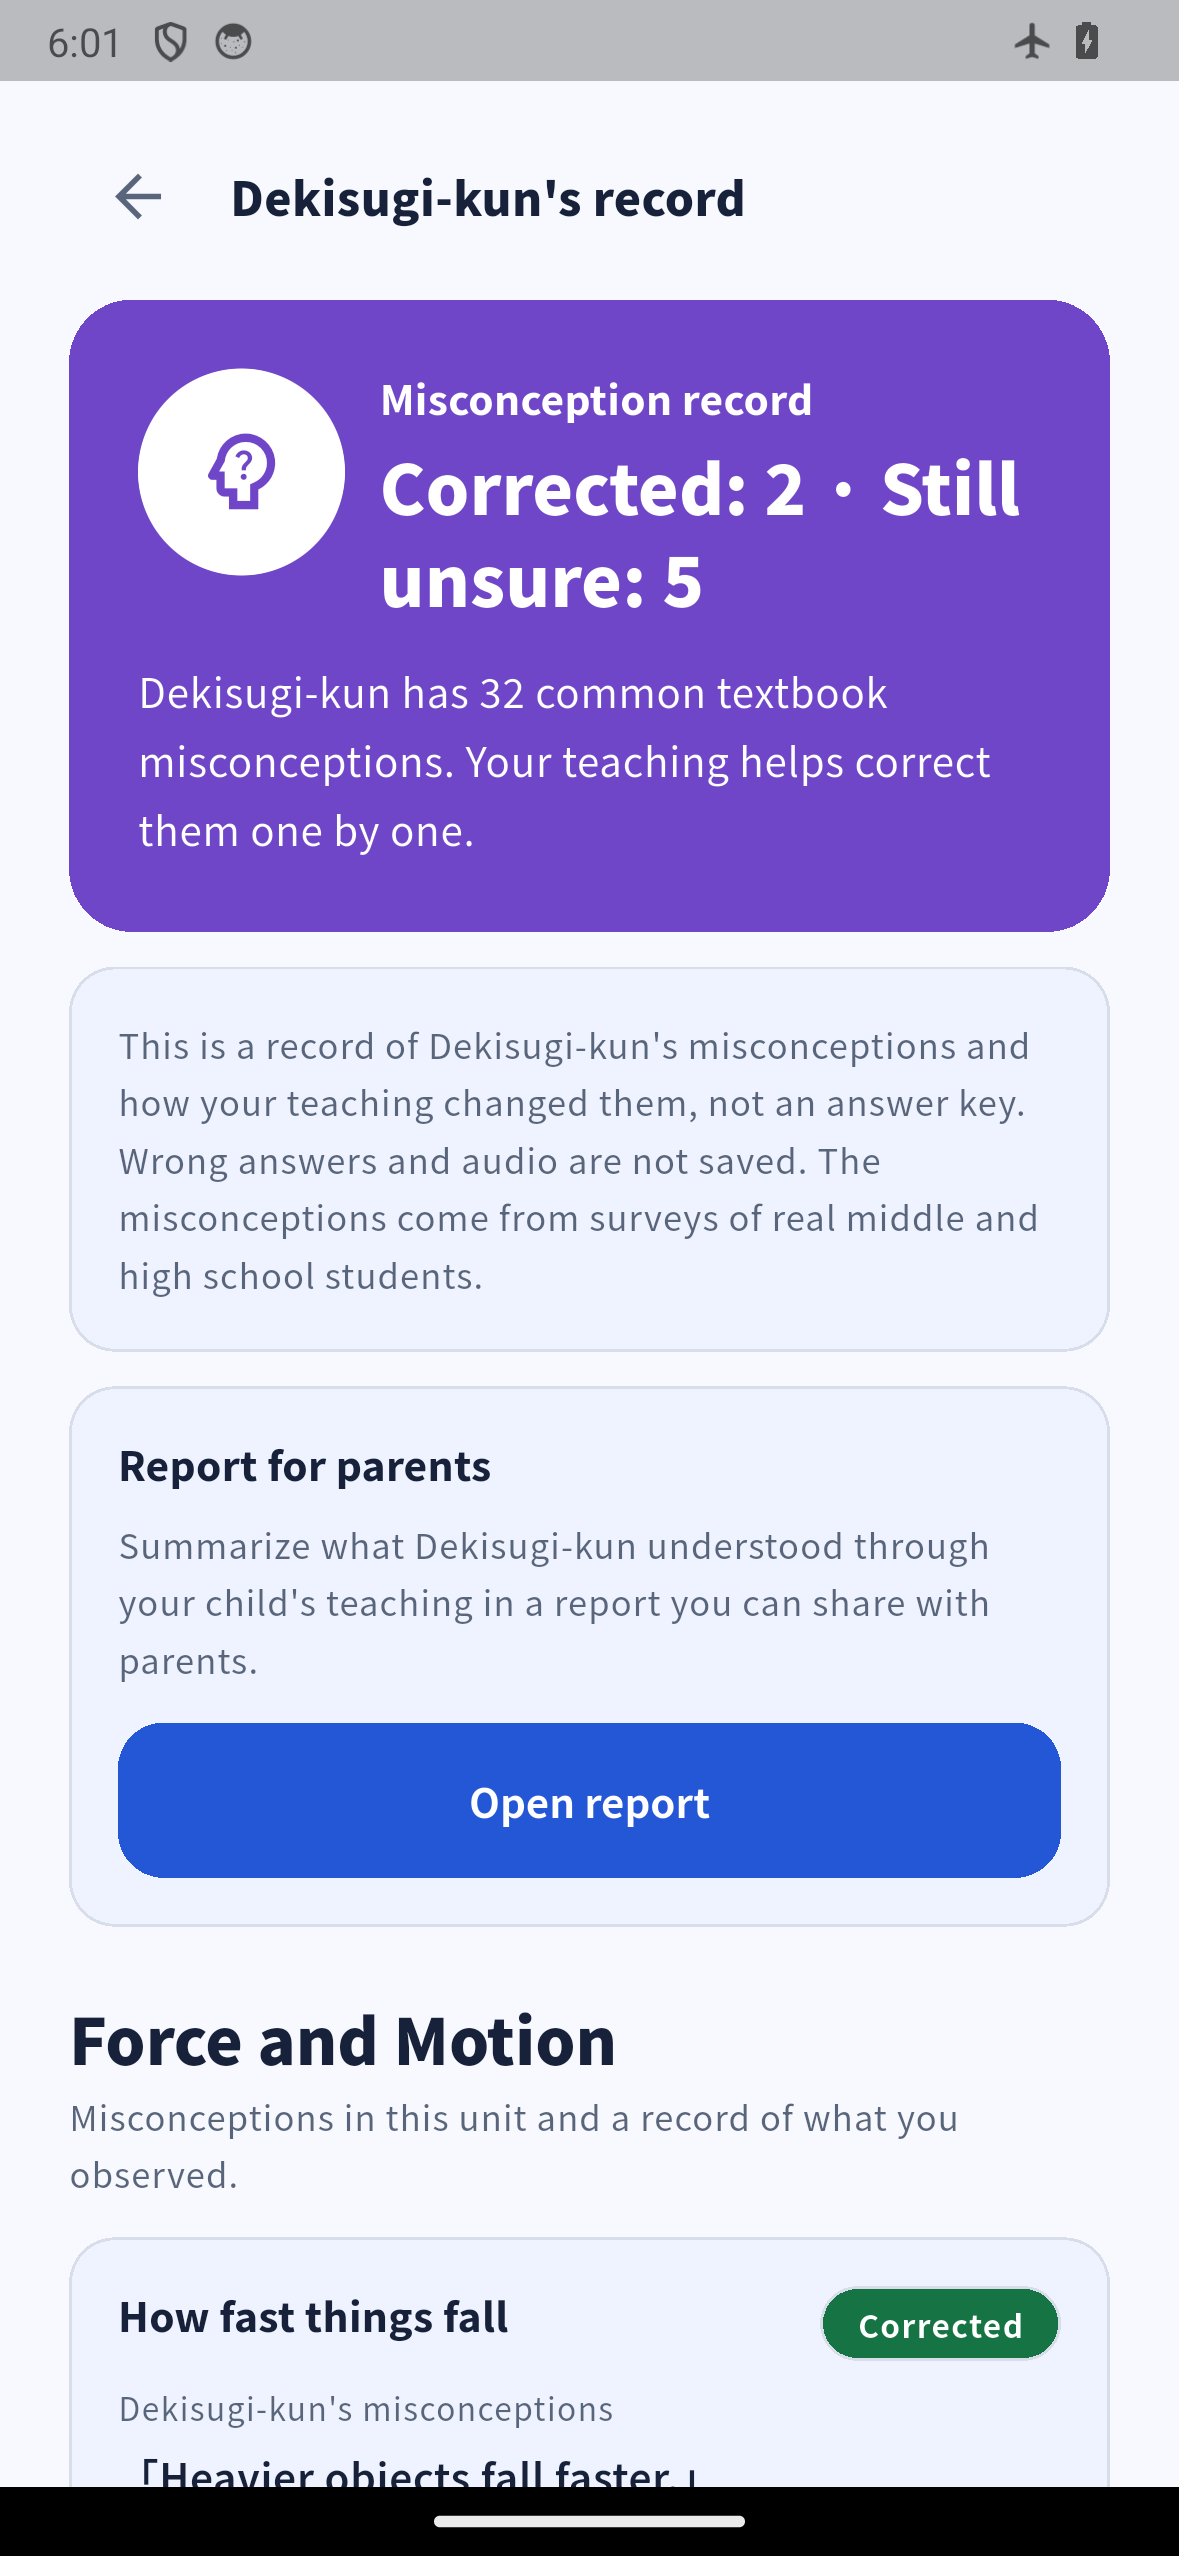
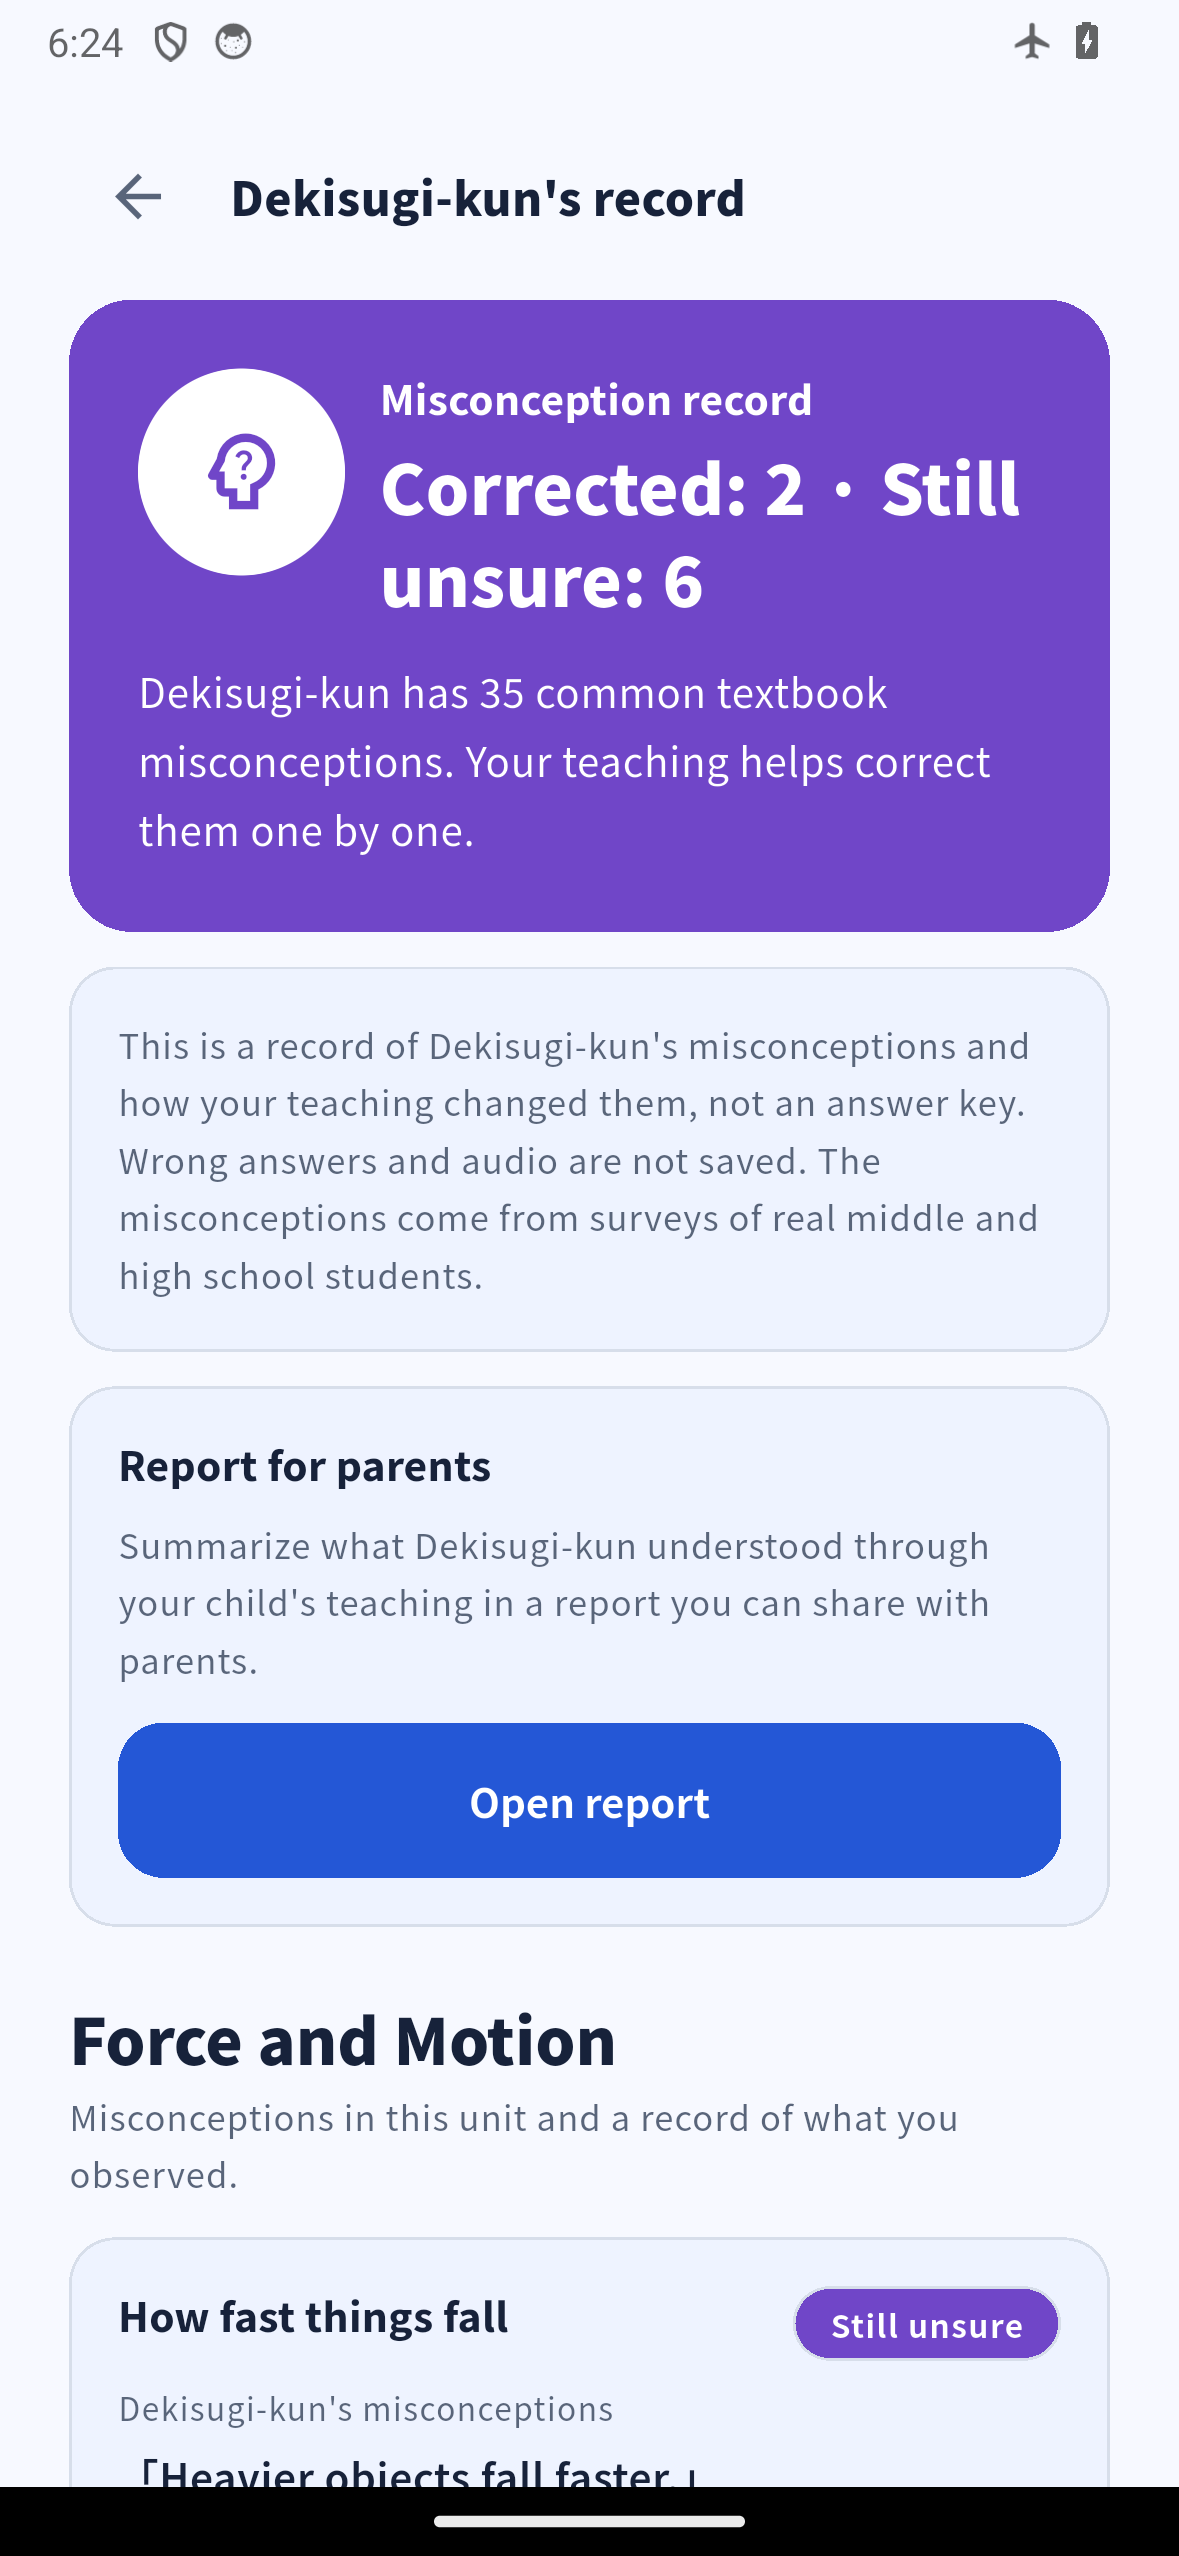
docs: カルテスクショを35件版へ差替 + web/index.html に noscript とメタ記述
- 誤概念35件（unit12含む）が見える karte.png 3点をエミュレータで再撮影
- ライブデモが fetch だと bootstrap シェルのみに見えるため noscript 説明文と title/description を追加

diff --git a/app/web/index.html b/app/web/index.html
@@ -18,7 +18,7 @@
 
   <meta charset="UTF-8">
   <meta content="IE=Edge" http-equiv="X-UA-Compatible">
-  <meta name="description" content="A new Flutter project.">
+  <meta name="description" content="Dekisugi-kun — a middle/high-school science app where students teach an AI companion. Learn-by-teaching: the AI never answers first.">
 
   <!-- iOS meta tags & icons -->
   <meta name="mobile-web-app-capable" content="yes">
@@ -29,7 +29,7 @@
   <!-- Favicon -->
   <link rel="icon" type="image/png" href="favicon.png"/>
 
-  <title>dekisugi</title>
+  <title>デキすぎ君 — Dekisugi-kun</title>
   <link rel="manifest" href="manifest.json">
 </head>
 <body>
@@ -42,5 +42,12 @@
     * https://docs.flutter.dev/platform-integration/web/initialization
   -->
   <script src="flutter_bootstrap.js" async></script>
+  <noscript>
+    <h1>デキすぎ君 — Dekisugi-kun</h1>
+    <p>A middle/high-school science app where students <em>teach</em> an AI
+    companion — the AI never answers first (learning by teaching). This page
+    is the live Flutter web build and needs JavaScript to run.</p>
+    <p>Source: https://github.com/Haruka-Kaya/dekisugi-kun (MIT)</p>
+  </noscript>
 </body>
 </html>
